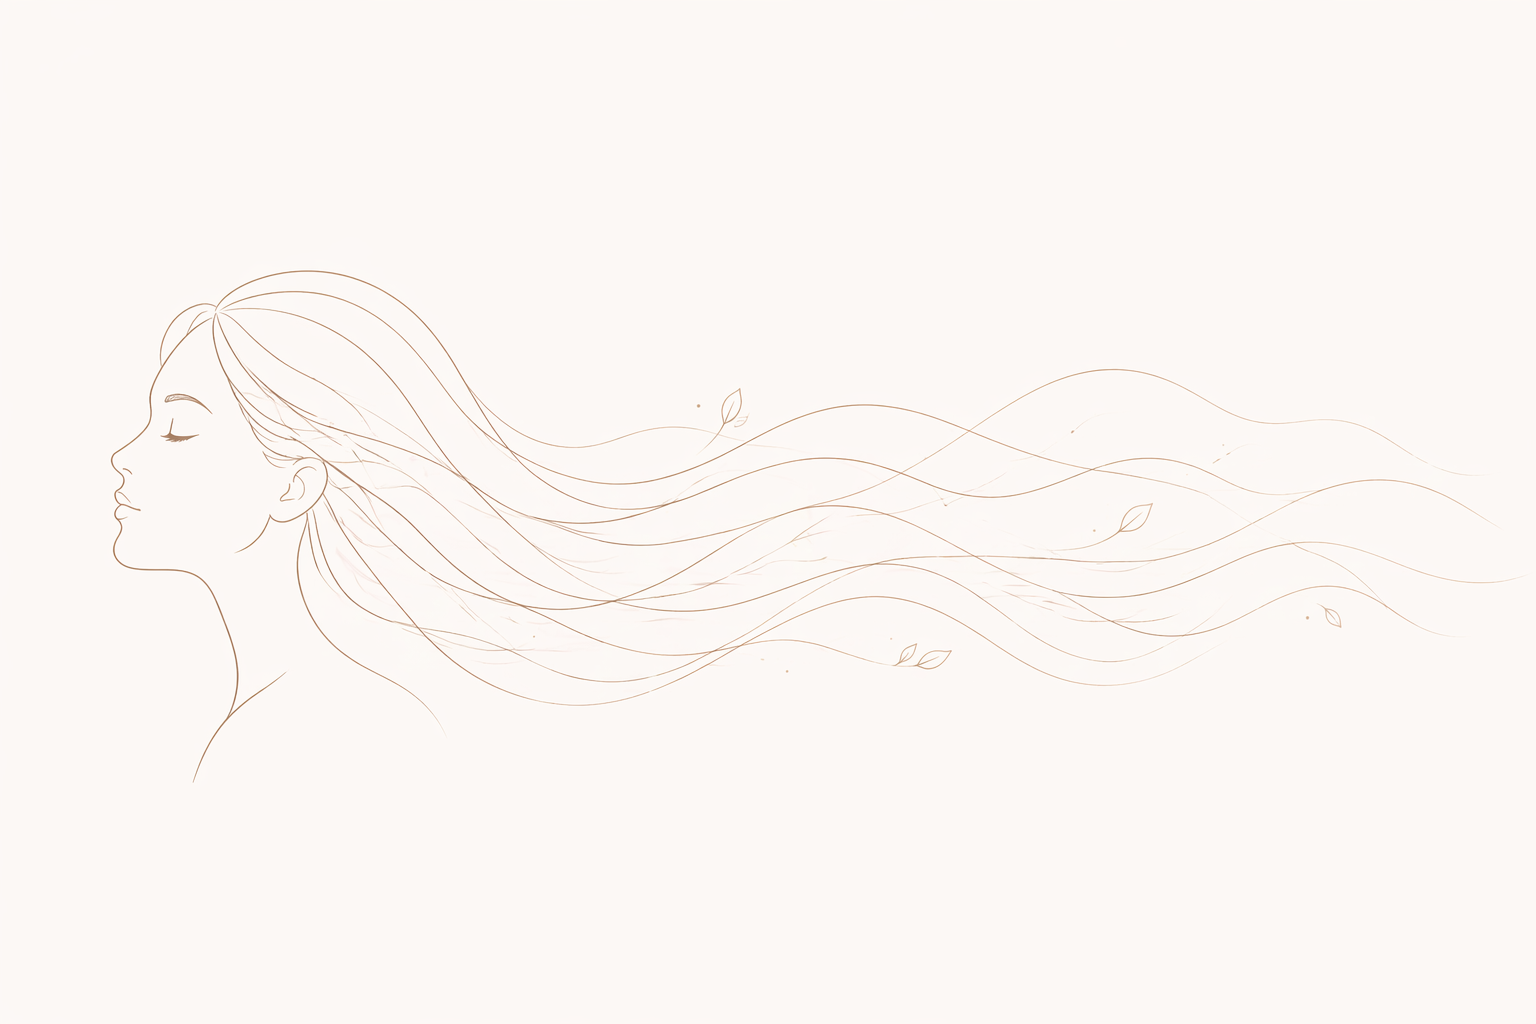
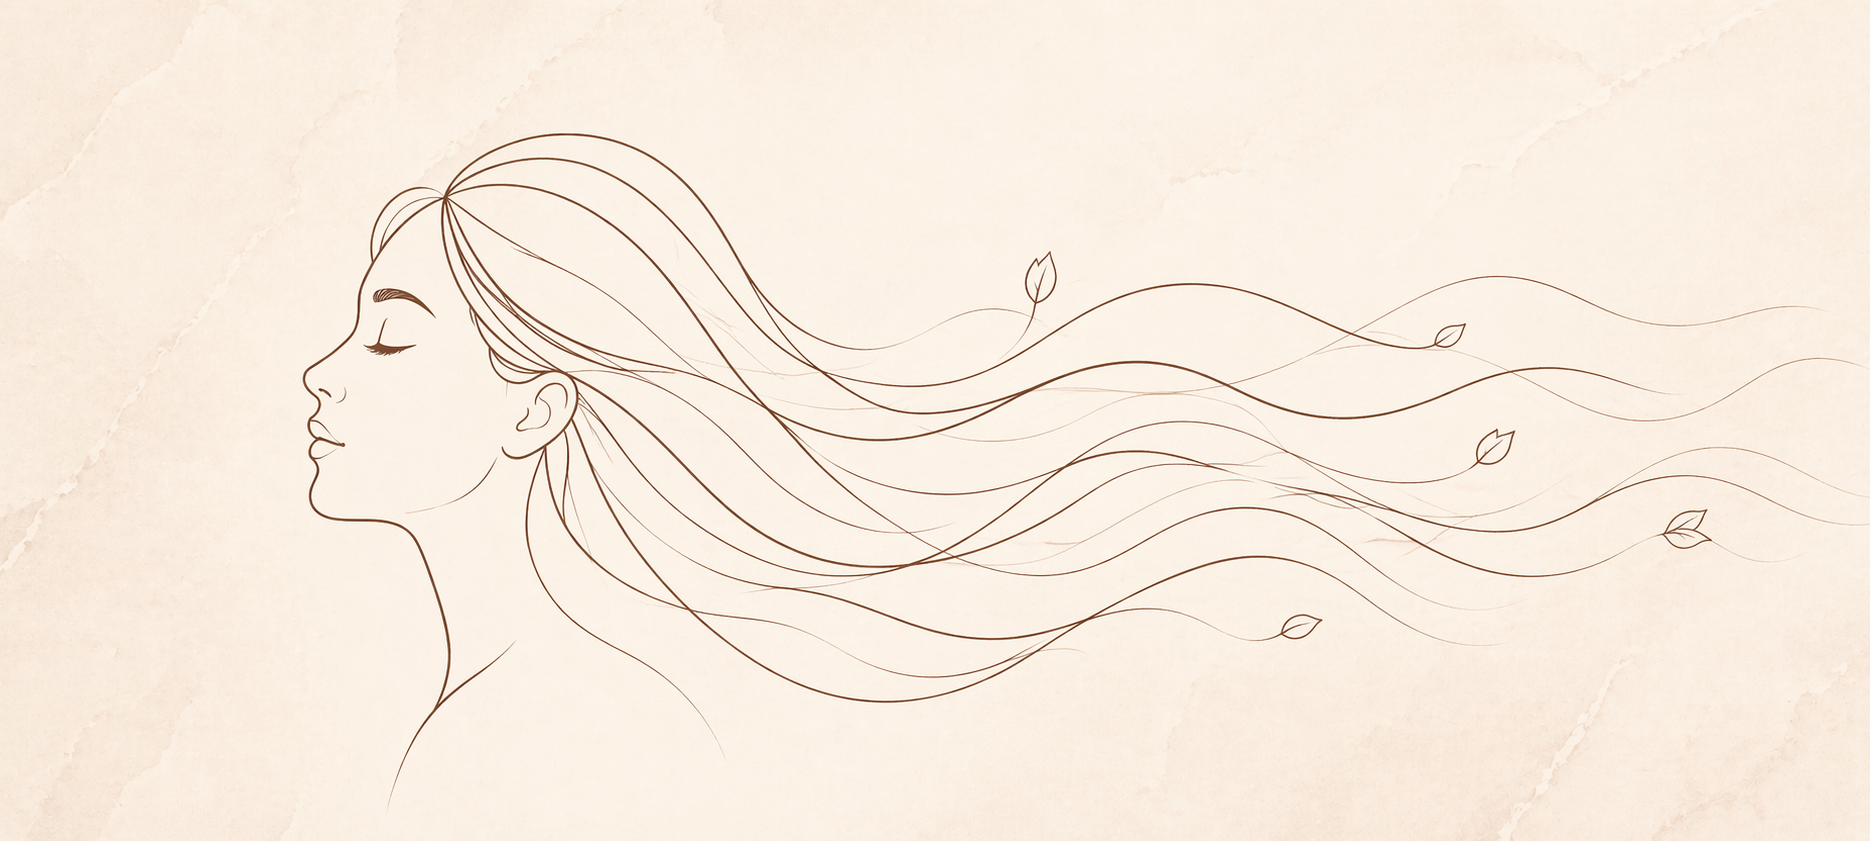
замена картинки

diff --git a/styles.css b/styles.css
@@ -1309,6 +1309,9 @@ input:focus{
   mix-blend-mode: multiply;
   opacity: 0.82;
   filter: contrast(1.48) saturate(1.35);
+  border-radius: 28px;
+  -webkit-mask-image: radial-gradient(circle at 70% 55%, rgba(0,0,0,1) 62%, rgba(0,0,0,0.86) 74%, rgba(0,0,0,0) 92%);
+  mask-image: radial-gradient(circle at 70% 55%, rgba(0,0,0,1) 62%, rgba(0,0,0,0.86) 74%, rgba(0,0,0,0) 92%);
   pointer-events: none;
   z-index: 0;
 }
